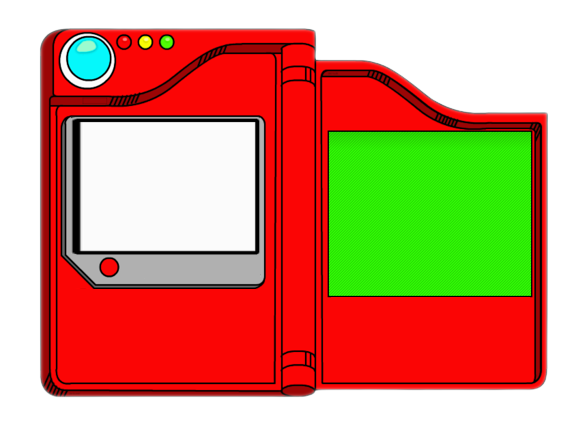
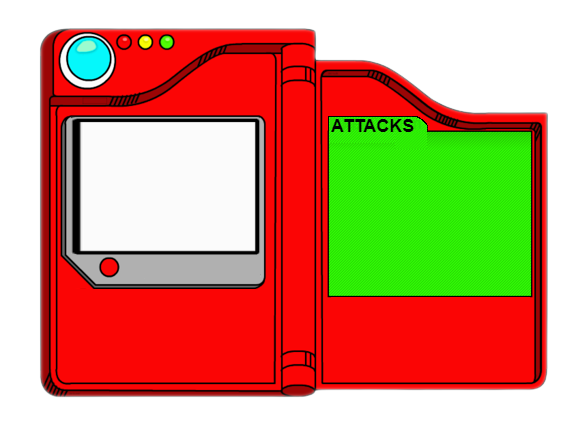
Atualização na foto da pokedex

Changed region(s): [[0.552, 0.2753, 0.7359, 0.3365]]

diff --git a/css/style.css b/css/style.css
@@ -103,7 +103,7 @@ main {
   width: 32.9%;
   height: 36%;
   right: 11.1%;
-  bottom: 32%;
+  top: 32%;
   overflow-y: auto;
 }
 
